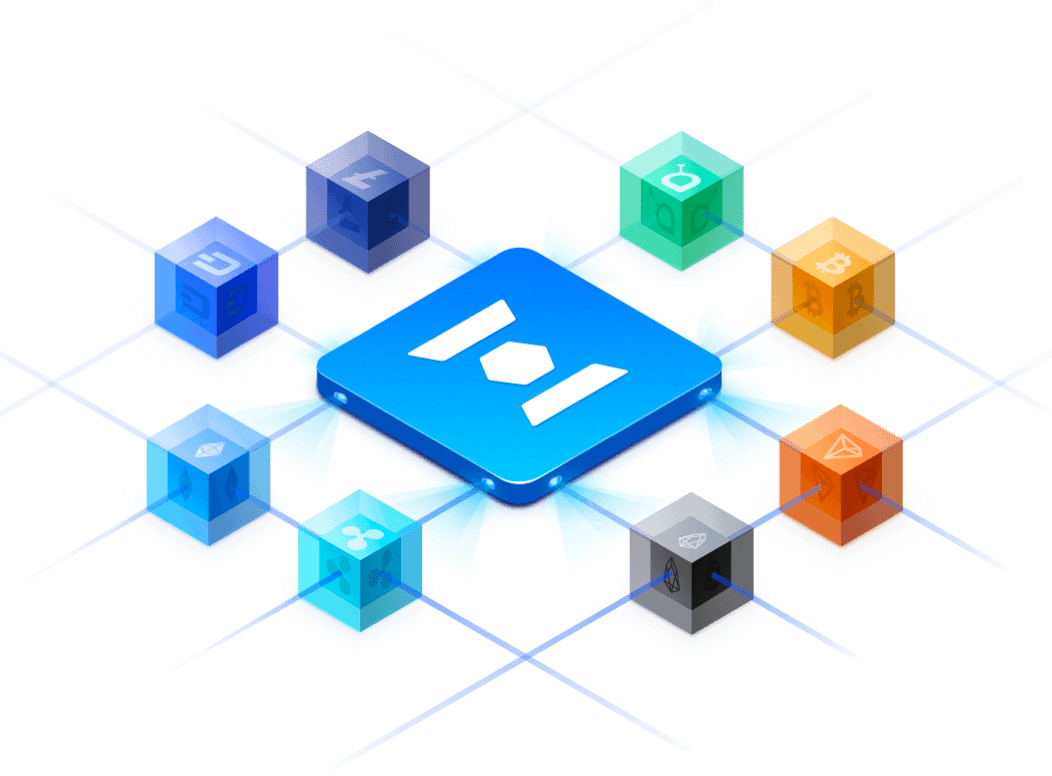
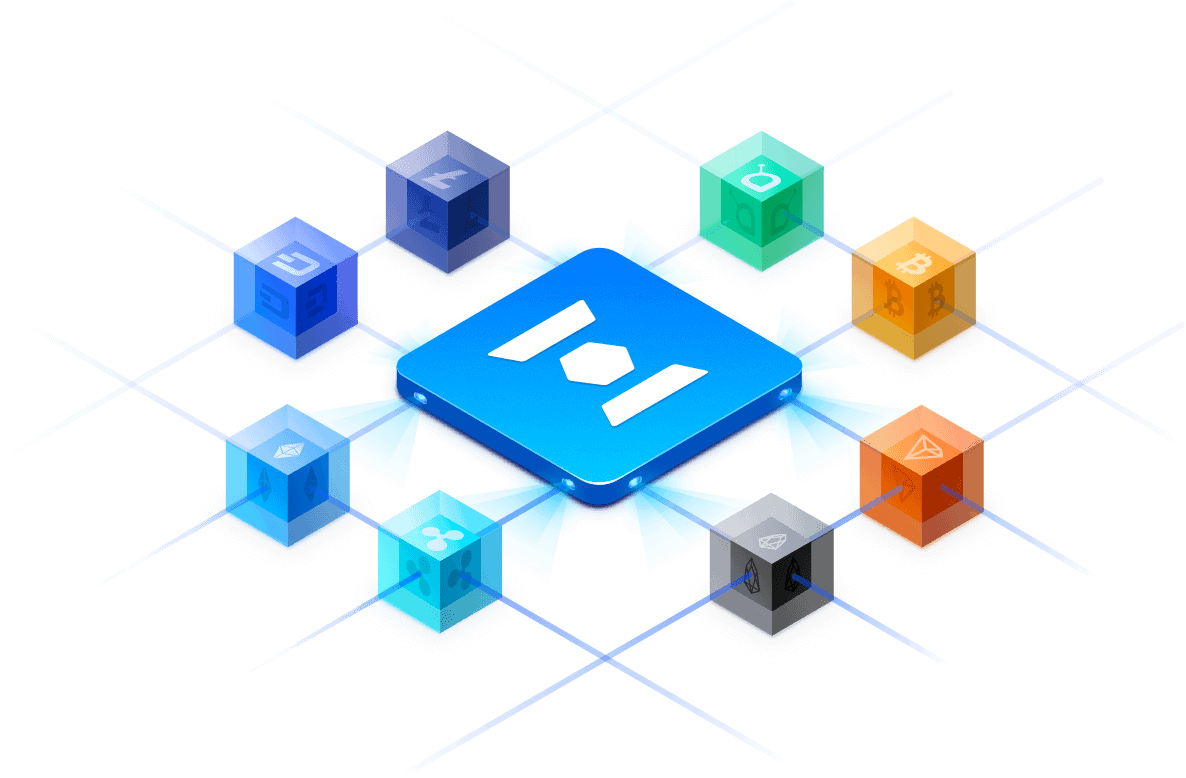
style optimize

diff --git a/src/home/index.scss b/src/home/index.scss
@@ -51,9 +51,6 @@
                 & > nav {
                     margin: 0 auto;
                     font-size: 14px;
-                    img {
-                        transform: translate(0, -5px);
-                    }
                     display: flex;
                     align-items: stretch;
                     justify-content: space-between;
@@ -91,6 +88,7 @@
                     }
                     p {
                         font-weight: 400;
+                        opacity: 0.8;
                     }
                 }
             }
@@ -165,8 +163,10 @@
 
     @media screen and (min-width: 1280px) {
         header {
+            min-height: 780px;
             max-height: 1080px;
             & > img {
+                min-height: 780px;
                 max-height: 1080px;
             }
             & > div {
@@ -229,8 +229,8 @@
                     color: #fff;
                     background: #3d75e3;
                     text-align: center;
-                    line-height: 62px;
-                    font-size: 22px;
+                    line-height: 60px;
+                    font-size: 26px;
                     border-radius: 6px;
                 }
             }
@@ -363,11 +363,11 @@
                 .logo {
                     width: 162px;
                     height: 162px;
-                    margin-bottom: 30px;
+                    margin-bottom: 40px;
                 }
                 .title {
                     font-size: 50px;
-                    line-height: 72px;
+                    line-height: 1;
                 }
                 .content {
                     font-size: 28px;
@@ -385,13 +385,10 @@
                     }
                 }
             }
-            img {
-                margin-top: 20px;
-            }
             &.section-1 {
                 height: 862px;
                 .section-info {
-                    padding-top: 120px;
+                    padding-top: 110px;
                     .content {
                         width: 694px;
                         line-height: 38px;
@@ -404,9 +401,6 @@
             }
             &.section-2 {
                 height: 1066px;
-                .title {
-                    font-family: "Maven Pro";
-                }
                 .section-info {
                     padding-top: 110px;
                     .content {
@@ -503,7 +497,7 @@
                 }
                 .title {
                     font-size: 32px;
-                    line-height: 38px;
+                    line-height: 1;
                 }
                 .content {
                     font-size: 18px;
@@ -520,19 +514,16 @@
                     }
                 }
             }
-            img {
-                margin-top: 10px;
-            }
             &.section-1 {
                 height: 623px;
                 .section-info {
-                    padding-top: 110px;
+                    padding-top: 90px;
                     .content {
                         width: 400px;
                     }
                 }
                 & > div > img {
-                    margin-top: 20px;
+                    margin-top: 40px;
                     width: 362px;
                     height: 255px;
                 }
@@ -546,7 +537,7 @@
                     }
                 }
                 & > div > img {
-                    margin-top: 30px;
+                    margin-top: 40px;
                     width: 314px;
                     height: 288px;
                 }
@@ -560,7 +551,7 @@
                     }
                 }
                 & > div > img {
-                    margin-top: 50px;
+                    margin-top: 40px;
                     width: 390px;
                     height: 241px;
                 }
@@ -591,12 +582,15 @@
             overflow-y: auto;
         }
         header {
+            width: 100%;
             max-height: 274px;
+            overflow: hidden;
             & > img {
+                width: 100%;
                 max-height: 274px;
             }
             & > div {
-                margin: 0 atuo;
+                margin: 0 auto;
                 width: 375px;
                 padding: 0;
                 font-size: initial;
@@ -626,6 +620,7 @@
                             background: #fff;
                             box-shadow: 0px 2px 12px 0px rgba(47, 48, 50, 0.3);
                             border-radius: 6px 6px 4px 4px;
+                            z-index: 10;
                             .nav-list-menus-item {
                                 width: 100%;
                                 height: 50px;
@@ -654,8 +649,7 @@
                     }
                 }
                 .nav-title {
-                    position: initial;
-                    transform: initial;
+                    top: 50%;
                     h1 {
                         font-size: 22px;
                         line-height: 26px;

diff --git a/src/home/js/index.js b/src/home/js/index.js
@@ -27,8 +27,9 @@ btn.addEventListener('click', event => {
 function resizeTopContent() {
     var cliWidth = document.documentElement.clientWidth;
     var cliHeight = document.documentElement.clientHeight;
-    $('.mixin-one-home-container header').css('width', (cliWidth) + 'px')
+    let width = cliWidth > 380 ? cliWidth : 380
+    $('.mixin-one-home-container header').css('width', width + 'px')
     $('.mixin-one-home-container header').css('height', (cliHeight + 1) + 'px')
-    $('.mixin-one-home-container .home-background').css('width', (cliWidth) + 'px')
+    $('.mixin-one-home-container .home-background').css('width', width + 'px')
     $('.mixin-one-home-container .home-background').css('height', (cliHeight + 1) + 'px')
 }
